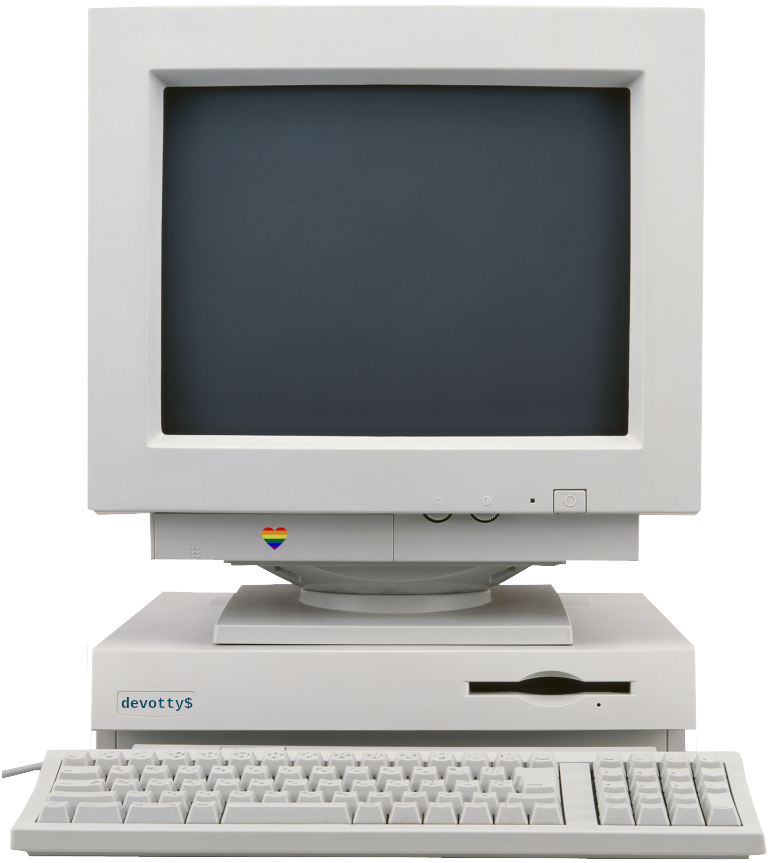
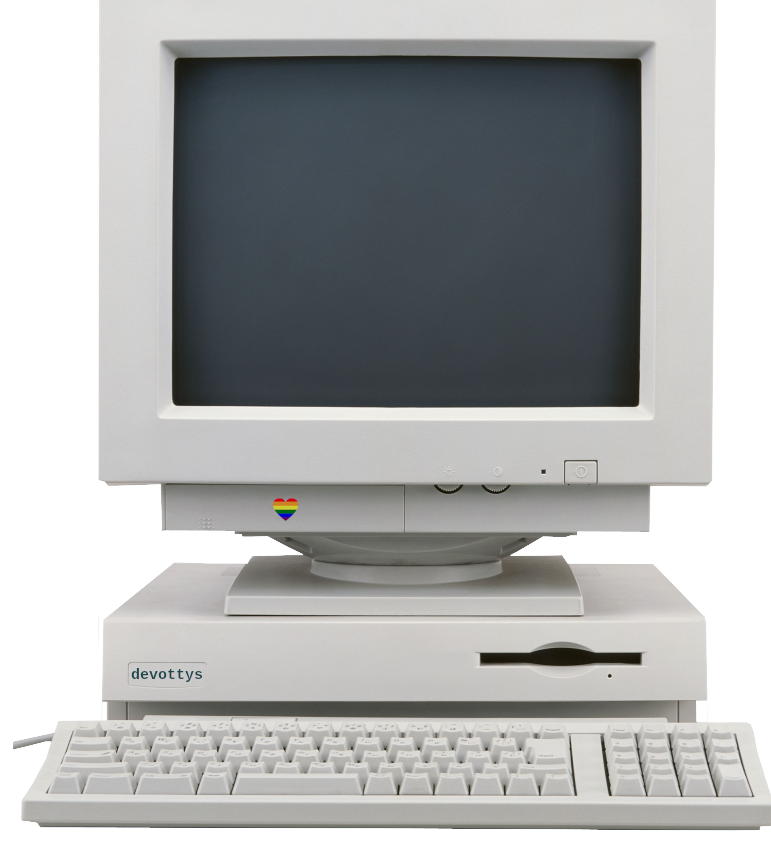
polish images and sizing

diff --git a/static/custom.css b/static/custom.css
@@ -7,52 +7,57 @@ h1 {
 
 body {
     background-color: #cdc;
-    width: 800px;
+    width: 1100px;
 }
 
 #projects {
-    padding-top: 5em;
+    padding-top: 4em;
+    margin-left: 2em;
 }
 
-#visidata { z-index: 5; }
-#darkdraw { z-index: 4; }
+#devottys { z-index: 2; }
 #xdplayer { z-index: 3; }
-#acquire { z-index: 2; }
+#darkdraw { z-index: 4; }
+#visidata { z-index: 5; }
+#boardgames { z-index: 6; }
 
-#acquire:hover { z-index:6; }
-#darkdraw:hover { z-index:6; }
-#xdplayer:hover { z-index:6; }
+a .project {
+    transition: all .3s ease-in 0s;
+}
+
+a .project:hover {
+    z-index:10;
+    margin-left: 1em;
+}
 
 .project {
-    margin: 5px;
-    margin-bottom: -200px;
-    width:250px;
-    height:264px;
+/*    margin-left: 20px; */
+    margin-bottom: -95px;
+    width:200px;
+    height:204px;
     background-image: url("/floppy35.jpg");
-    background-size: 250px;
+    background-size: 100%;
     float: left;
     position: relative;
 }
 
 .project .label {
     position: absolute;
-    top: 110px;
-    left: 30px;
-    width: 180px;
+    top: 10px;
+    left: 22px;
+    width: 160px;
     height: 135px;
-/*    border: 5px black solid;
-    border-radius: 16px; */
     font-family: 'Permanent Marker', cursive;
     text-align: center;
 }
 
-.project h3 {
-    margin-top: .5em;
-    font-size: 150%;
+.project {
+    font-size: 24px;
 }
-.project h3, .front {
-    margin-bottom: 0;
-    font-size: 30px;
+
+.project h3 {
+    font-size: 125%;
+    margin-bottom: .2em;
 }
 
 .front {
@@ -61,7 +66,7 @@ body {
 }
 
 .label .front img {
-    margin-top: 1.5em;
+    margin-top: .5em;
     margin-bottom: .5em;
     width: 90%;
 }
@@ -84,23 +89,22 @@ a .label {
 }
 
 .computer img {
-    height: 600px;
+    width: 800px;
 }
 
 .computer .screen img {
-    width: 315px;
-    height: 240px;
+    width: 100%;
+    height: 100%;
     background-color: #333;
 }
 
 .computer .screen {
     position: absolute;
-    top: 62px;
-    left: 115px;
-    width: 315px;
-    height: 240px;
-/*    border: 3px black solid;
-    border-radius: 4px; */
+    top: 61px;
+    left: 183px;
+    width: 480px;
+    height: 359px;
+    border-radius: 4px;
     font-family: 'Permanent Marker', cursive;
     text-align: center;
 }

diff --git a/index.md b/index.md
@@ -9,22 +9,11 @@
 <div id="projects">
 
 <a href="https://visidata.org">
-<div id="visidata" class="project" onmouseover="document.getElementById('screenimage').src='https://www.visidata.org/freq-move-row.gif';">
+<div id="devottys" class="project" onmouseover="document.getElementById('screenimage').src='https://www.visidata.org/devottys.gif';">
 <div class="label">
 <div class="front">
-<img src="https://www.visidata.org/vdlogo.png" alt="VisiData logo"/>
-data supertool
-</div>
-</div>
-</div>
-</a>
-
-<a href="/darkdraw">
-<div id="darkdraw" class="project" onmouseover="document.getElementById('screenimage').src='';">
-<div class="label">
-<div class="front">
-<h3>DarkDraw II</h3>
-text art drawing utility
+<h3>devottys</h3>
+player characters
 </div>
 </div>
 </div>
@@ -41,6 +30,28 @@ multiplayer crossword solver
 </div>
 </a>
 
+<a href="/darkdraw">
+<div id="darkdraw" class="project" onmouseover="document.getElementById('screenimage').src='';">
+<div class="label">
+<div class="front">
+<h3>DarkDraw</h3>
+text art drawing utility
+</div>
+</div>
+</div>
+</a>
+
+<a href="https://visidata.org">
+<div id="visidata" class="project" onmouseover="document.getElementById('screenimage').src='https://www.visidata.org/freq-move-row.gif';">
+<div class="label">
+<div class="front">
+<img src="https://www.visidata.org/vdlogo.png" alt="VisiData logo"/>
+data supertool
+</div>
+</div>
+</div>
+</a>
+
 <!--a href="/letterdash">
 <div class="project">
 <div class="label">
@@ -52,7 +63,7 @@ unicode arcade game
 </div>
 </a-->
 
-<a href="/acquire">
+<!--a href="/acquire">
 <div id="acquire" class="project" onmouseover="document.getElementById('screenimage').src='/acquire.png';">
 <div class="label">
 <div class="front">
@@ -61,6 +72,6 @@ board game mockup
 </div>
 </div>
 </div>
-</a>
+</a-->
 
 </div>
